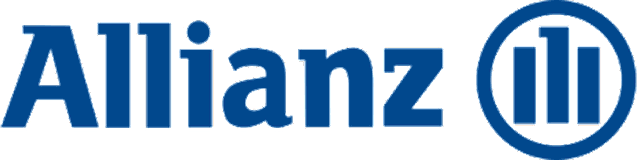
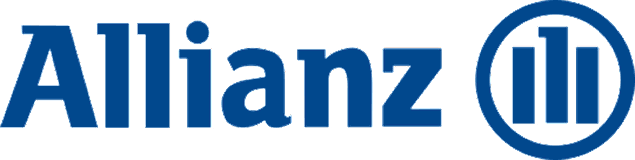
Allianz, HDI e Itaú entram de um original um pouco maior
A Acionar reenviou os cinco logos. Três vieram de fonte 1,2x maior — o desenho
útil da Allianz passou de 116 para 136 pixels de altura, e antes ele era
ampliado para chegar nos 160 do padrão da casa. Agora amplia menos.

Honestamente: a 44px, que é onde o cartão desenha, a diferença não se vê. O que
muda de fato é a fidelidade da fonte e uns 1,2 KB a menos.

Mapfre e Zurich não mudaram. Os arquivos são outros, mas o desenho dentro deles
é do mesmo tamanho: a palavra MAPFRE continua com 22 pixels de altura e precisa
ser ampliada 7,3x, e o Zurich continua 155x148 na variante clara — e agora em
JPEG, que nem transparência aceita. São justamente os dois que precisavam de
original melhor.

diff --git a/docs/index.html b/docs/index.html
@@ -12,7 +12,7 @@
 <!-- o iOS ignora os ícones do manifest ao "Adicionar à Tela de Início" -->
 <link rel="apple-touch-icon" href="assets/icone-192.png">
 <link rel="icon" type="image/png" href="assets/icone-192.png">
-<link rel="stylesheet" href="styles.css?v=v56">
+<link rel="stylesheet" href="styles.css?v=v57">
 </head>
 <body>
 
@@ -336,11 +336,11 @@
   </form>
 </dialog>
 
-<script src="comum.js?v=v56"></script>
+<script src="comum.js?v=v57"></script>
 <!-- qr.js antes de app.js: o cartao chama gerarQR/desenharQR para o convite
      de indicacao. Gerador proprio, sem biblioteca externa -- ver o cabecalho
      de qr.js. -->
-<script src="qr.js?v=v56"></script>
-<script src="app.js?v=v56"></script>
+<script src="qr.js?v=v57"></script>
+<script src="app.js?v=v57"></script>
 </body>
 </html>

diff --git a/app.js b/app.js
@@ -8,7 +8,7 @@
 // Precisa bater com o VERSAO do sw.js. O diagnóstico mostra os dois lado a
 // lado justamente para o vendedor perceber quando o aparelho está preso numa
 // versão antiga: se divergirem, o service worker ainda não trocou.
-const VERSAO_APP = 'v56';
+const VERSAO_APP = 'v57';
 
 const CHAVE_CONFIG = 'acionar.config';
 const CHAVE_CATALOGO = 'acionar.seguradoras';

diff --git a/docs/app.js b/docs/app.js
@@ -8,7 +8,7 @@
 // Precisa bater com o VERSAO do sw.js. O diagnóstico mostra os dois lado a
 // lado justamente para o vendedor perceber quando o aparelho está preso numa
 // versão antiga: se divergirem, o service worker ainda não trocou.
-const VERSAO_APP = 'v56';
+const VERSAO_APP = 'v57';
 
 const CHAVE_CONFIG = 'acionar.config';
 const CHAVE_CATALOGO = 'acionar.seguradoras';

diff --git a/docs/sw.js b/docs/sw.js
@@ -18,7 +18,7 @@
  * MEXEU EM QUALQUER ARQUIVO DA CASCA? Suba o número do VERSAO abaixo.
  */
 
-const VERSAO = 'acionar-v56';
+const VERSAO = 'acionar-v57';
 
 const CASCA = [
   '.',

diff --git a/sw.js b/sw.js
@@ -18,7 +18,7 @@
  * MEXEU EM QUALQUER ARQUIVO DA CASCA? Suba o número do VERSAO abaixo.
  */
 
-const VERSAO = 'acionar-v56';
+const VERSAO = 'acionar-v57';
 
 const CASCA = [
   '.',
